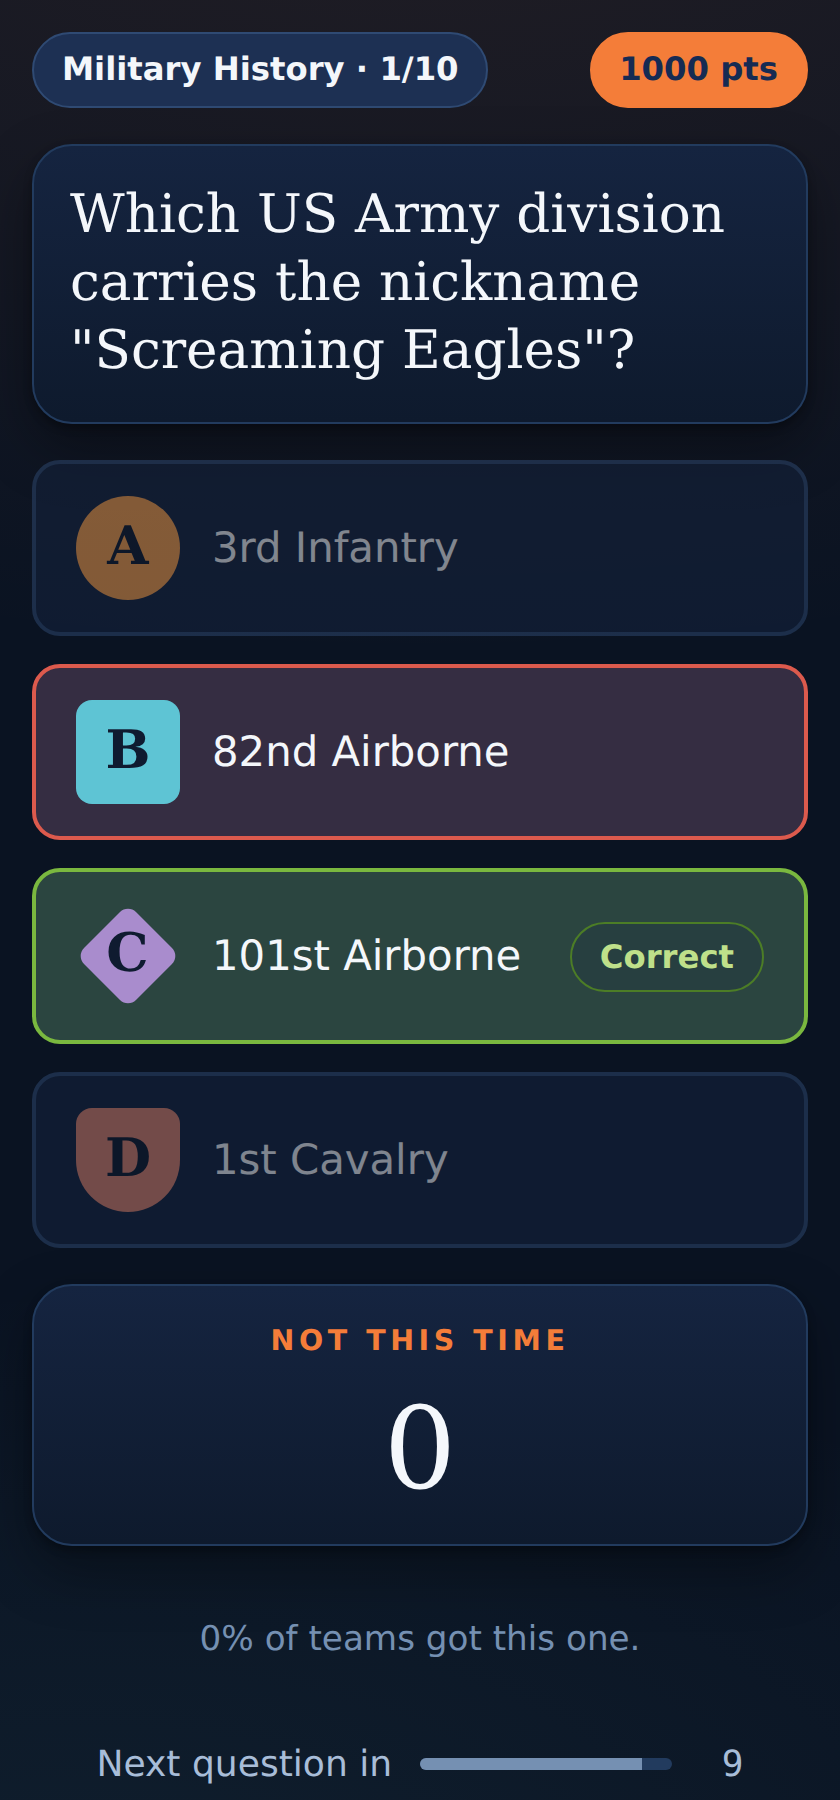
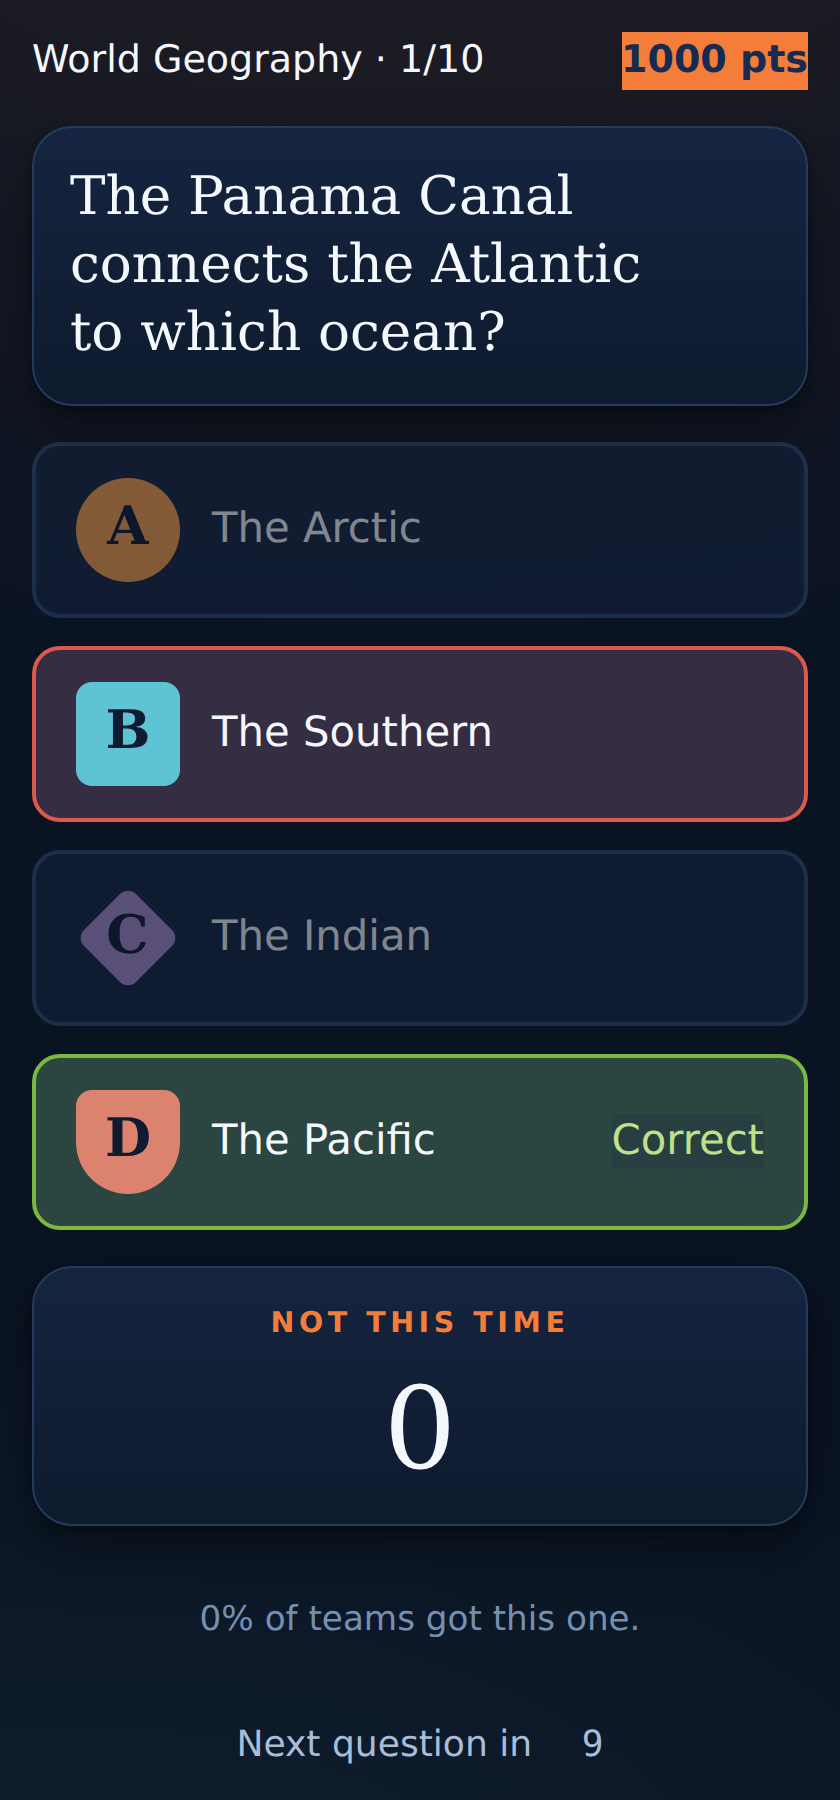
fix: the big screen never left the question, and a sliding bar survived
Two things, both mine.

The switch to the scoreboard was gated on more than one team being in the
game. On a single-entry night — and on every solo test — the big screen
sat on the question for the whole gap and the run-up clock never appeared
at all, because it lives in that same branch. The gate is gone: how many
people are playing has nothing to do with whether the room should see
where it stands.

And the sliding bar was still there. Removing it from the question screen
left the one inside AutoAdvance, which draws its own bar and runs during
"answer in" and "next question in" — on the big screen twice, on the
handsets, and on the MC's phone. It now shows the label and the number
only, which is what was asked for in the first place.

With nothing drawing a bar any more, the Timer component and five rules of
CSS behind it were dead, as was AutoAdvance's `total` prop, whose only job
was to compute a width. All removed rather than left for the next reader
to wonder about.

Verified with one team playing: the big screen reaches the scoreboard and
its clock, and the DOM carries no sliding bar on any screen.

diff --git a/src/client/shared/styles.css b/src/client/shared/styles.css
@@ -263,29 +263,7 @@ input:focus { border-color: var(--brass); outline: none; }
 
 /* ---------------------------------------------------------------- timer */
 
-.timer {
-  height: 14px;
-  border-radius: 99px;
-  background: var(--line-soft);
-  overflow: hidden;
-}
-.timer > i {
-  display: block;
-  height: 100%;
-  background: linear-gradient(90deg, var(--brass), var(--brass-deep));
-  /* Width is set inline from the deadline; no transition so a host extending
-     the clock doesn't animate backwards through a stale value. */
-}
-.timer.is-low > i { background: linear-gradient(90deg, var(--wrong), #a8392f); }
 
-.timer-row { display: flex; align-items: center; gap: 14px; }
-.timer-count {
-  font-family: var(--mono);
-  font-size: 1.4rem;
-  font-variant-numeric: tabular-nums;
-  min-width: 2.6ch;
-  text-align: right;
-}
 
 /* --------------------------------------------------------- auto-advance */
 
@@ -298,27 +276,13 @@ input:focus { border-color: var(--brass); outline: none; }
   font-size: .95rem;
 }
 .autonext-label { white-space: nowrap; }
-.autonext-bar {
-  display: block;
-  width: min(240px, 30vw);
-  height: 6px;
-  border-radius: 99px;
-  background: var(--line-soft);
-  overflow: hidden;
-}
-.autonext-bar > i {
-  display: block;
-  height: 100%;
-  background: var(--text-faint);
-}
 .autonext-count {
   font-family: var(--mono);
   min-width: 2ch;
   text-align: right;
 }
 .host .autonext { font-size: clamp(1rem, 1.4vw, 1.5rem); }
-.host .autonext-bar { height: 10px; width: min(380px, 26vw); }
-
+.host 
 /* ---------------------------------------------------------------- pills */
 
 .pill {

diff --git a/src/client/host/host.tsx b/src/client/host/host.tsx
@@ -248,11 +248,13 @@ function App() {
   // The answer and its fact get the first part of the gap; the scoreboard takes
   // the last few seconds, so each question ends on where everyone now stands.
   const standingsWindowMs = nextUpWindowMs(state.config.nextQuestionDelaySeconds);
+  // Not gated on how many teams are playing. It used to require more than one,
+  // which meant that on a single-entry night — and on every solo test — the big
+  // screen never left the question and the run-up clock never appeared at all.
   const showStandings =
     state.phase === 'reveal' &&
     !!state.autoAdvanceAt &&
     !state.held &&
-    state.scoreboard.length > 1 &&
     state.autoAdvanceAt - tick <= standingsWindowMs;
 
   // No point showing the rail next to a full scoreboard.
@@ -382,7 +384,6 @@ function App() {
               <div class="center"><span class="pill pill-brass" style={{ fontSize: '1.3rem' }}>Answers in</span></div>
               <AutoAdvance
                 at={state.autoAdvanceAt}
-                total={state.config.revealDelaySeconds}
                 label="Answer in"
                 held={state.held}
               />
@@ -398,7 +399,6 @@ function App() {
               </div>
               <AutoAdvance
                 at={state.autoAdvanceAt}
-                total={state.config.nextQuestionDelaySeconds}
                 label="Next question in"
                 held={state.held}
               />

diff --git a/src/client/shared/ui.tsx b/src/client/shared/ui.tsx
@@ -18,19 +18,6 @@ export function Badge({ slot, small }: { slot: number; small?: boolean }) {
   );
 }
 
-export function Timer({ fraction, seconds }: { fraction: number; seconds: number }) {
-  const low = seconds <= 10;
-  return (
-    <div class="timer-row">
-      <div class={`timer grow${low ? ' is-low' : ''}`} role="presentation">
-        <i style={{ width: `${fraction * 100}%` }} />
-      </div>
-      <div class="timer-count" aria-live="off">{seconds}</div>
-      <span class="sr-only" role="timer">{seconds} seconds remaining</span>
-    </div>
-  );
-}
-
 /**
  * The "moving on in N" strip shown while auto-advance is counting down.
  *
@@ -40,12 +27,10 @@ export function Timer({ fraction, seconds }: { fraction: number; seconds: number
  */
 export function AutoAdvance({
   at,
-  total,
   label,
   held,
 }: {
   at?: number;
-  total: number;
   label: string;
   held?: boolean;
 }) {
@@ -67,12 +52,10 @@ export function AutoAdvance({
 
   const msLeft = Math.max(0, at - now);
   const seconds = Math.ceil(msLeft / 1000);
-  const fraction = Math.max(0, Math.min(1, msLeft / (total * 1000)));
 
   return (
     <div class="autonext">
       <span class="autonext-label">{label}</span>
-      <span class="autonext-bar"><i style={{ width: `${fraction * 100}%` }} /></span>
       <span class="autonext-count tabular">{seconds}</span>
     </div>
   );

diff --git a/src/client/control/control.tsx b/src/client/control/control.tsx
@@ -641,7 +641,6 @@ function App() {
             <div class="grow">
               <AutoAdvance
                 at={state.autoAdvanceAt}
-                total={state.phase === 'locked' ? state.config.revealDelaySeconds : state.config.nextQuestionDelaySeconds}
                 label={state.phase === 'locked' ? 'Revealing in' : 'Next in'}
                 held={state.held}
               />

diff --git a/src/client/player.tsx b/src/client/player.tsx
@@ -188,7 +188,6 @@ function Reveal({ state }: { state: PlayerState }) {
       <p class="faint center">{reveal.correctPct}% of teams got this one.</p>
       <AutoAdvance
         at={state.autoAdvanceAt}
-        total={state.config.nextQuestionDelaySeconds}
         label="Next question in"
         held={state.held}
       />
